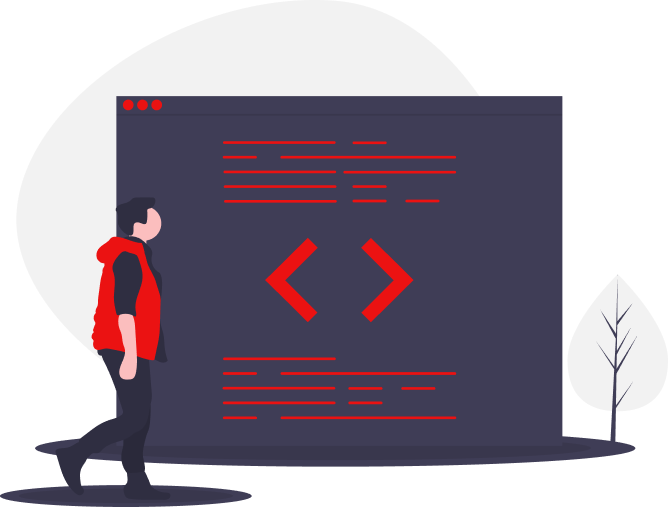
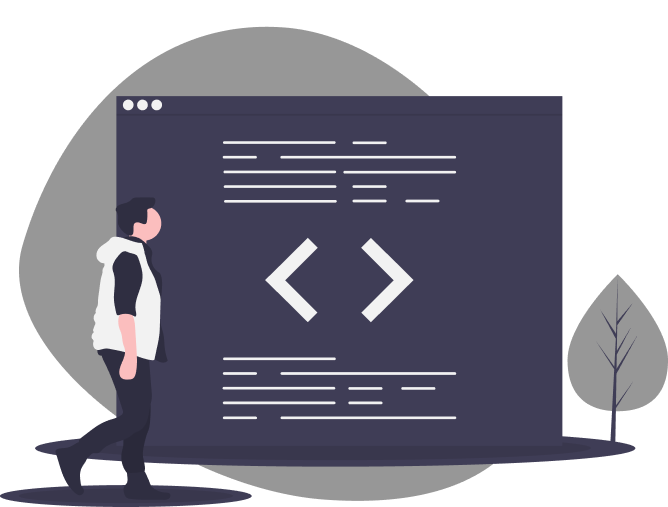
Updated the colors for the bio page

diff --git a/assets/css/bioStyle.css b/assets/css/bioStyle.css
@@ -1,5 +1,5 @@
 body{
-   background-color: #B2B2B2 !important;
+   background-color: #F2F2F2 !important;
 }
 main{
    margin: 0 auto;
